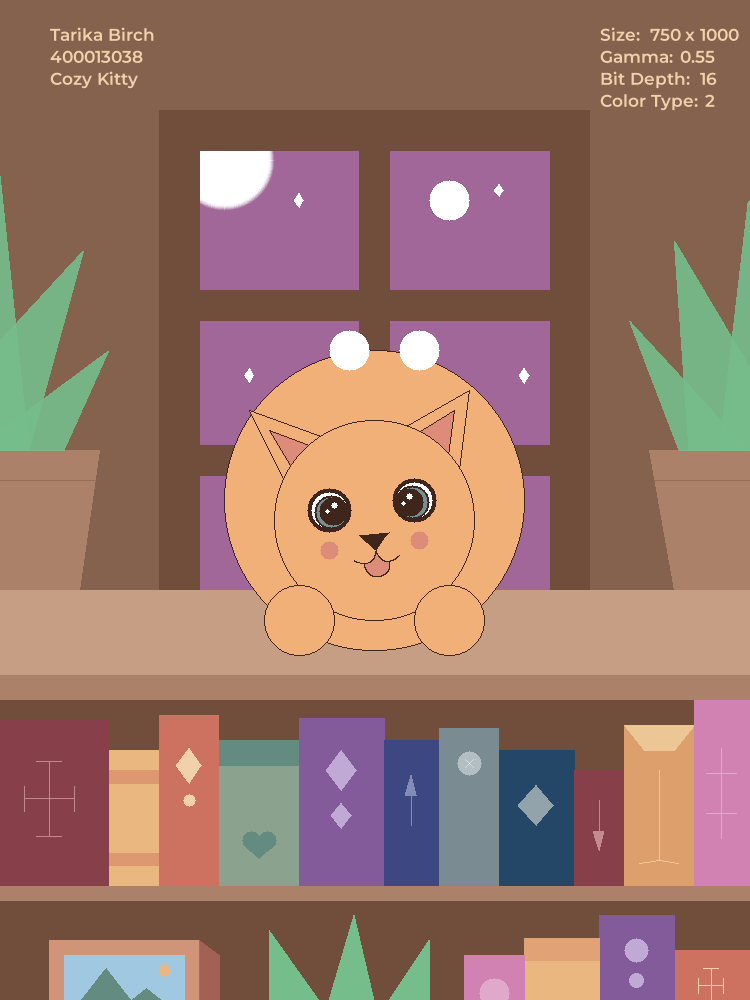
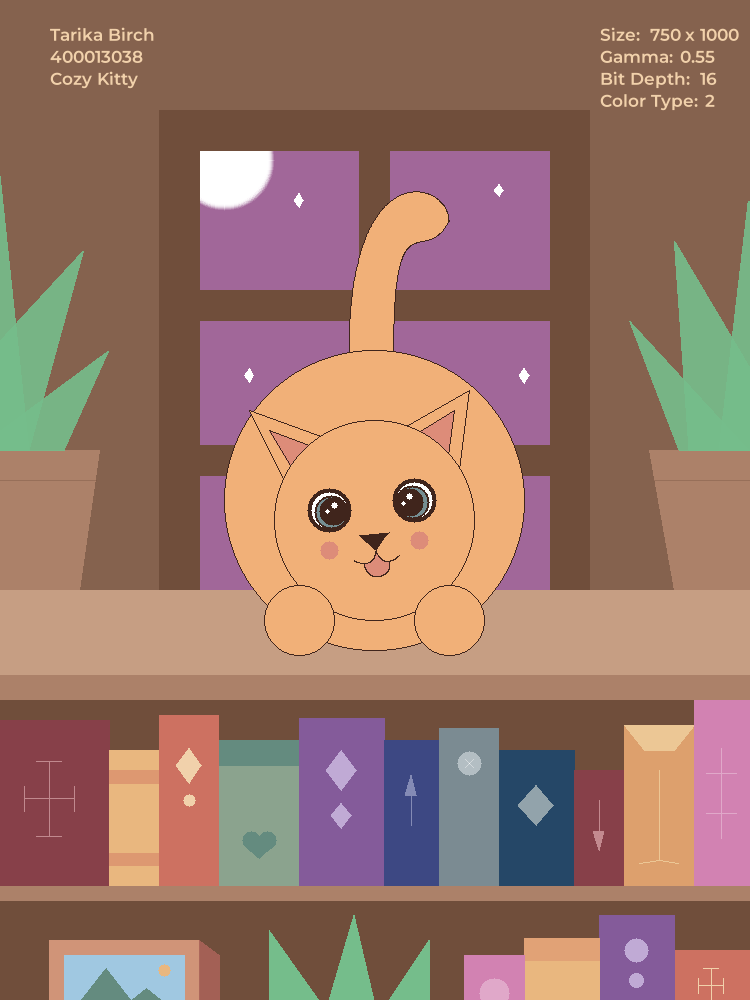
Added a tail

Changed region(s): [[0.4293, 0.155, 0.644, 0.372]]

diff --git a/main.cpp b/main.cpp
@@ -255,35 +255,46 @@ int main()
 
 
 	// Cat
+	double catRed = 0.945;
+	double catGreen = 0.690;
+	double catBlue = 0.471;
+	
 	// Tail
-	image.filledcircle(350, 600, 20, 1.0, 1.0, 1.0);
+	image.bezier(350, 650, 350, 850, 450, 780, 450, 820, 0.251, 0.145, 0.110);
+	image.bezier(450, 780, 420, 720, 400, 500, 380, 850, 0.251, 0.145, 0.110);
+	image.line(350, 650, 400, 500, 0.251, 0.145, 0.110);
+	image.flood_fill(380, 780, catRed, catGreen, catBlue);
+	image.flood_fill(400, 780, catRed, catGreen, catBlue);
+	image.flood_fill(358, 720, catRed, catGreen, catBlue);
+	image.flood_fill(355, 670, catRed, catGreen, catBlue);
+	image.flood_fill(392, 670, catRed, catGreen, catBlue);
 	 
 	// Body
-	image.filledcircle(375, 500, 150, 0.945, 0.690, 0.471);
+	image.filledcircle(375, 500, 150, catRed, catGreen, catBlue);
 	image.circle(375, 500, 150, 0.251, 0.145, 0.110);
 
 	// Left Ear
-	image.filledtriangle(285, 520, 250, 590, 360, 550, 0.945, 0.690, 0.471);
+	image.filledtriangle(285, 520, 250, 590, 360, 550, catRed, catGreen, catBlue);
 	image.triangle(285, 520, 250, 590, 360, 550, 0.251, 0.145, 0.110);
 	image.filledtriangle(300, 520, 270, 570, 350, 540, 0.867, 0.549, 0.475);
 	image.triangle(300, 520, 270, 570, 350, 540, 0.251, 0.145, 0.110);
 
 	// Right Ear
-	image.filledtriangle(365, 550, 470, 610, 460, 530, 0.945, 0.690, 0.471);
+	image.filledtriangle(365, 550, 470, 610, 460, 530, catRed, catGreen, catBlue);
 	image.triangle(365, 550, 470, 610, 460, 530, 0.251, 0.145, 0.110);
 	image.filledtriangle(390, 550, 455, 590, 445, 515, 0.867, 0.549, 0.475);
 	image.triangle(390, 550, 455, 590, 445, 515, 0.251, 0.145, 0.110);
 
 	// Head
-	image.filledcircle(375, 480, 100, 0.945, 0.690, 0.471);
+	image.filledcircle(375, 480, 100, catRed, catGreen, catBlue);
 	image.circle(375, 480, 100, 0.251, 0.145, 0.110);
 
 	// Left Paw
-	image.filledcircle(300, 380, 35, 0.945, 0.690, 0.471);
+	image.filledcircle(300, 380, 35, catRed, catGreen, catBlue);
 	image.circle(300, 380, 35, 0.251, 0.145, 0.110);
 
 	// Right Paw
-	image.filledcircle(450, 380, 35, 0.945, 0.690, 0.471);
+	image.filledcircle(450, 380, 35, catRed, catGreen, catBlue);
 	image.circle(450, 380, 35, 0.251, 0.145, 0.110);
 
 	// Nose
